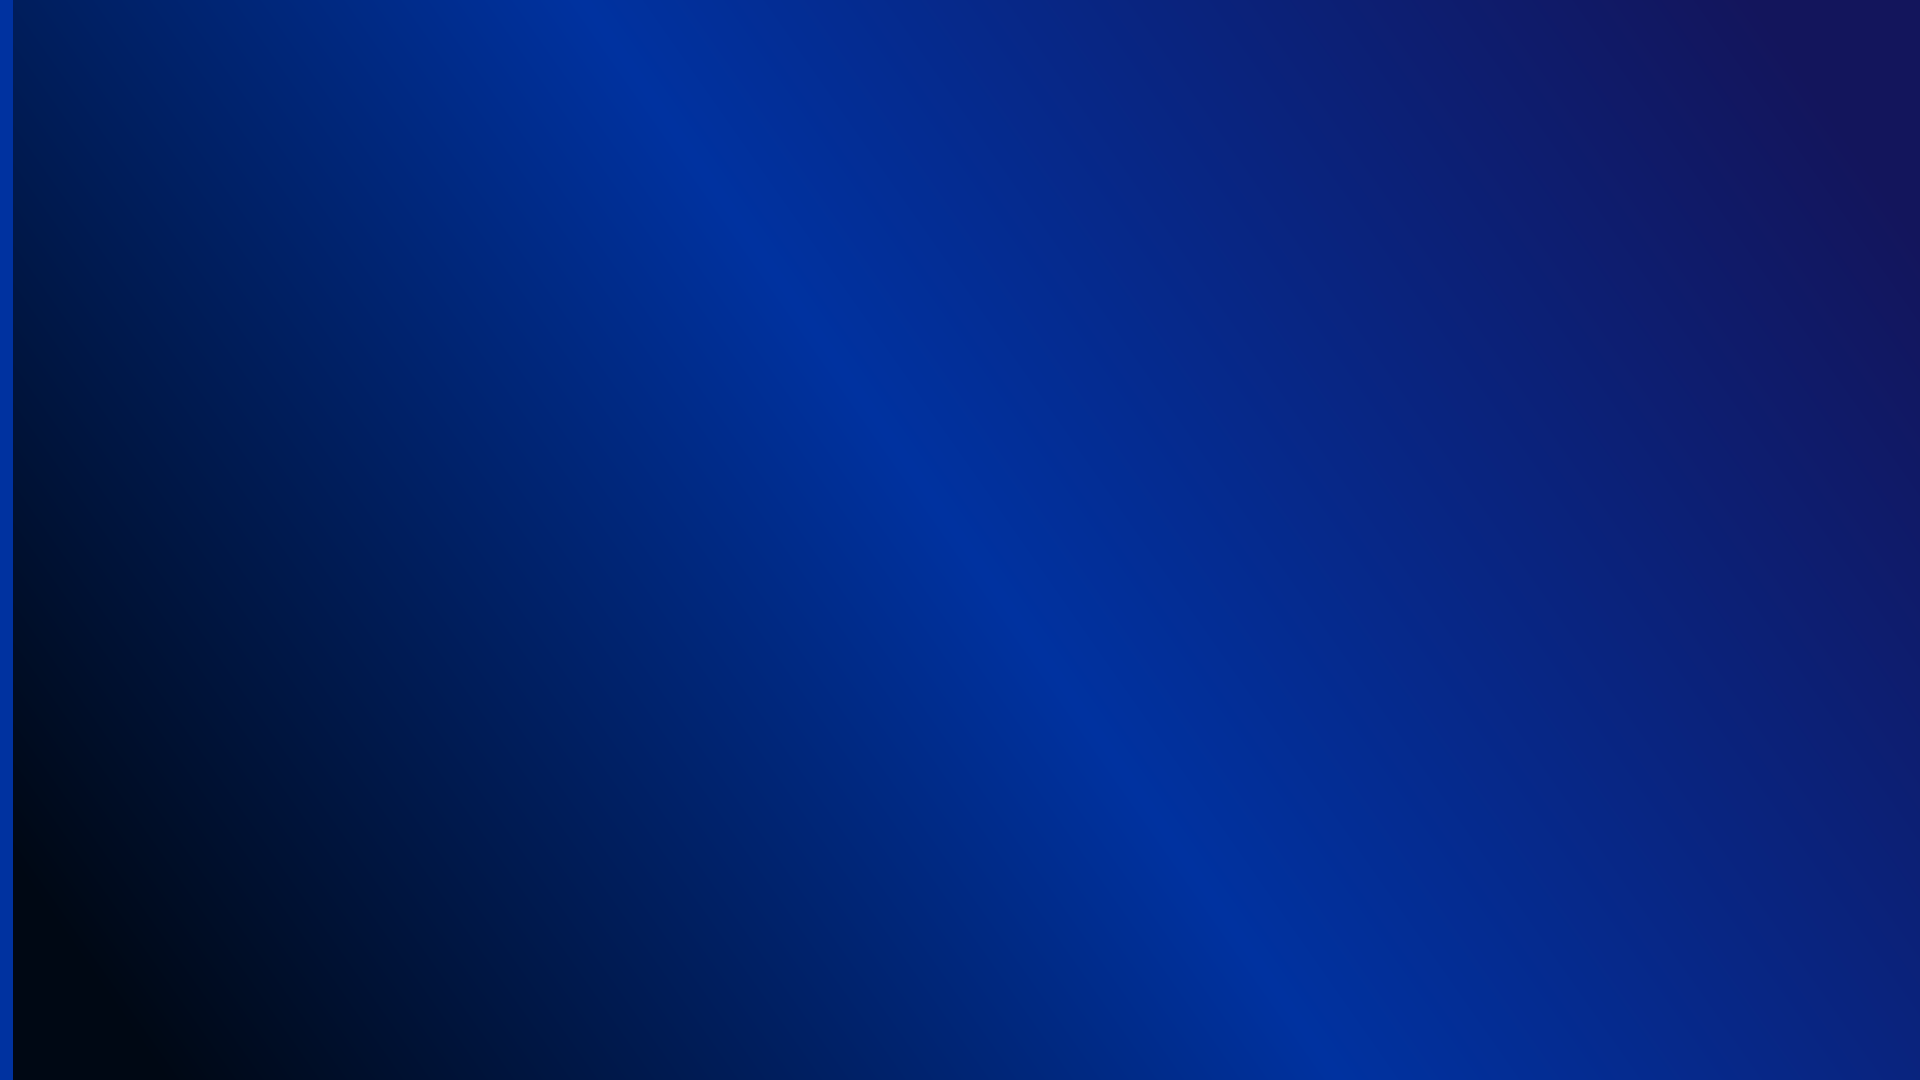
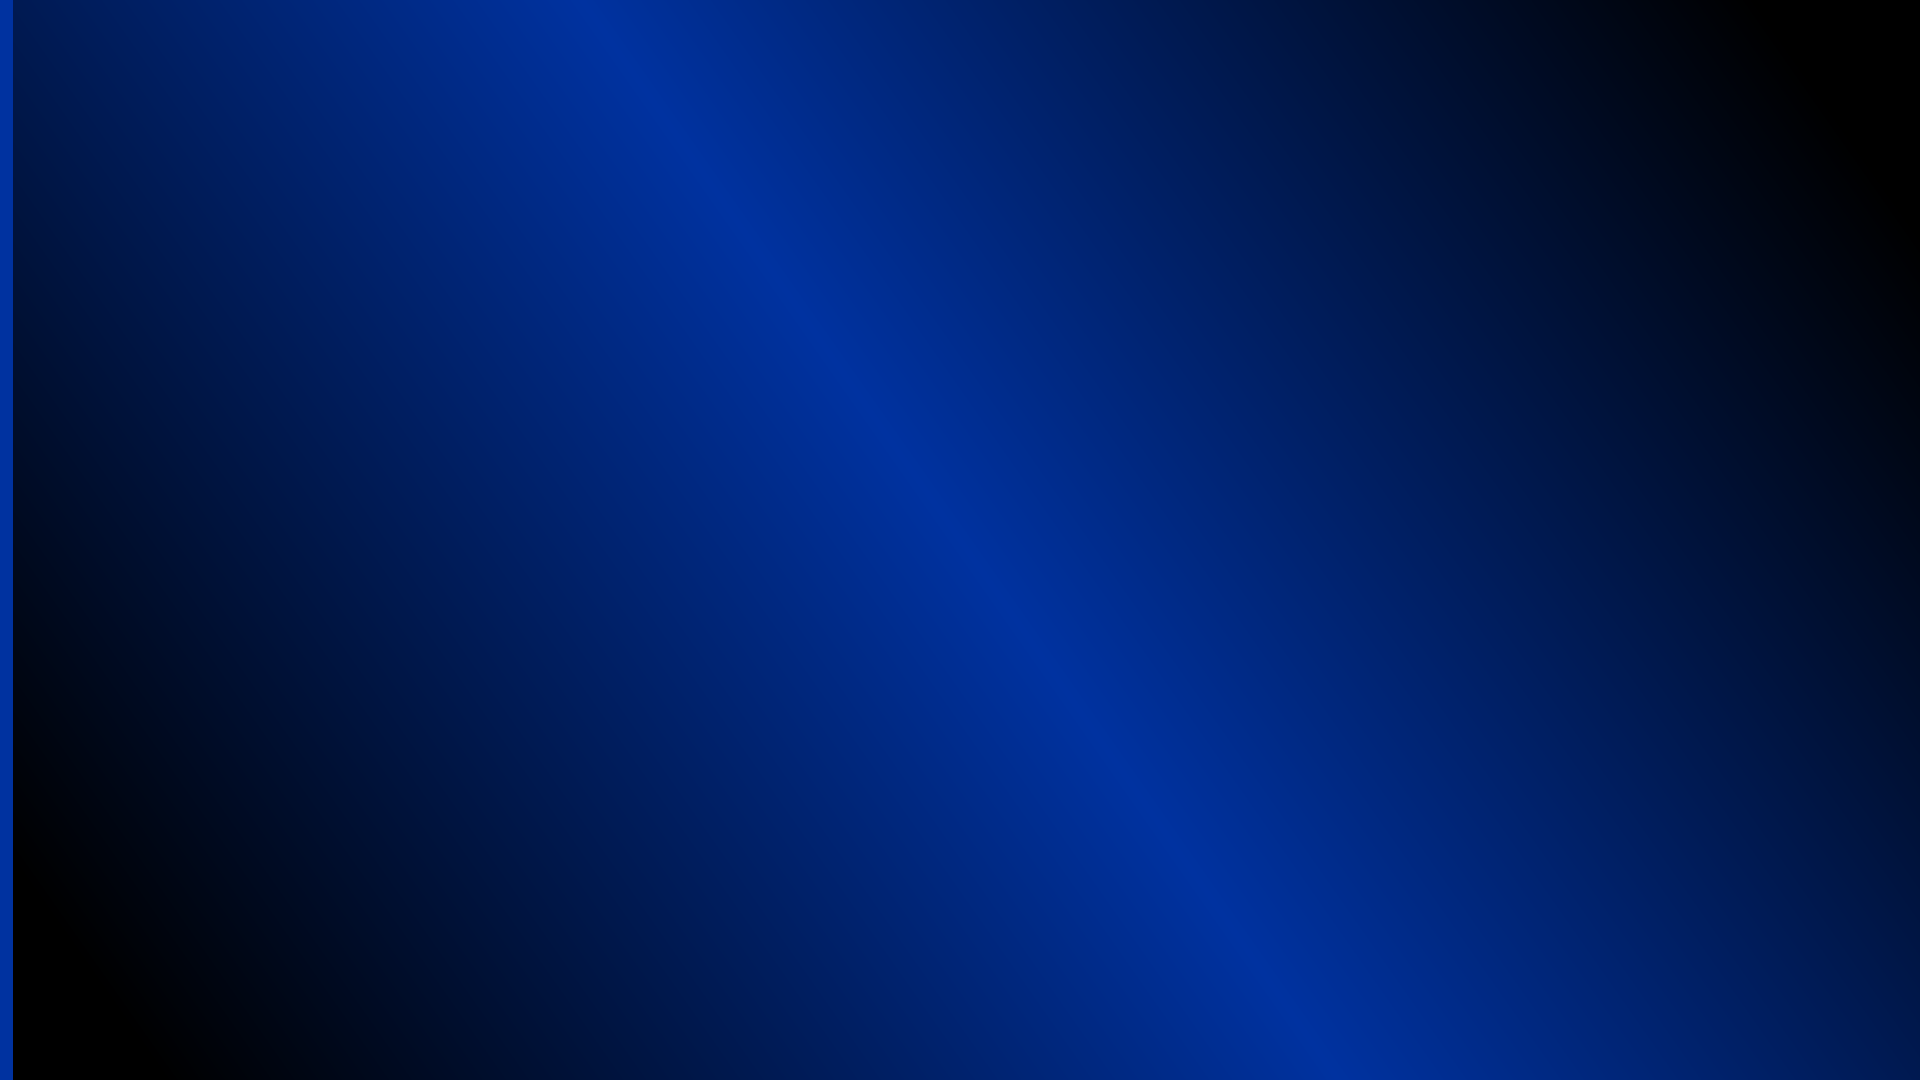
Update GVSU Lakers theme preset and enhance related functionality
- Refined the GVSU Lakers theme preset to align with official branding, including updates to subtitle, highlight, and body colors.
- Enhanced the `signage_theme_tokens_from_slide_preset` function to incorporate new signage page and harbor values for improved color management.
- Updated the test script to validate the new color settings and ensure compliance with the GVSU visual identity.

diff --git a/lib/slides_lib.php b/lib/slides_lib.php
@@ -735,17 +735,19 @@ function slide_theme_background_presets(): array
             'accent' => ['type' => 'glow', 'color' => '#ffd089', 'opacity' => 0.2],
             'thumb' => 'golden_hour.png',
         ],
-        // GVSU visual identity — https://www.gvsu.edu/identity/color-2
+        // Primary palette only: GVSU Blue, black, white — https://www.gvsu.edu/identity/color-2
         'gvsu_lakers' => [
             'label' => 'GVSU',
             'title' => '#FFFFFF',
-            'subtitle' => '#DEC197',
-            'highlight' => '#DEC197',
-            'harbor_tint' => '#0032A0',
-            'body' => '#b8c8e8',
-            'footer' => '#8aa0c0',
+            'subtitle' => '#FFFFFF',
+            'highlight' => '#FFFFFF',
+            'signage_page' => '#000000',
+            'signage_harbor' => '#0032A0',
+            'signage_beacon' => '#FFFFFF',
+            'body' => '#e8ecf5',
+            'footer' => '#d0d8e8',
             'bg' => ['type' => 'linear', 'angle' => 145, 'stops' => [
-                [0, '#13155C'], [0.5, '#0032A0'], [1, '#000814'],
+                [0, '#000000'], [0.5, '#0032A0'], [1, '#000000'],
             ]],
             'accent' => ['type' => 'bar', 'color' => '#0032A0', 'width' => 12],
             'thumb' => 'gvsu_lakers.png',

diff --git a/lib/signage_theme_lib.php b/lib/signage_theme_lib.php
@@ -188,10 +188,18 @@ function signage_theme_tokens_from_slide_preset(string $key, array $preset, arra
             );
         }
     }
-    $beacon = trim((string)($preset['highlight'] ?? $preset['subtitle'] ?? '#ffb347'));
+    $pageOverride = trim((string)($preset['signage_page'] ?? ''));
+    if ($pageOverride !== '') {
+        $lakeNight = $pageOverride;
+    }
+    $beacon = trim((string)($preset['signage_beacon'] ?? $preset['highlight'] ?? $preset['subtitle'] ?? '#ffb347'));
     $harborTint = trim((string)($preset['harbor_tint'] ?? $beacon));
     $light = !empty($preset['light']);
-    if ($key === 'lake_night') {
+    $harborOverride = trim((string)($preset['signage_harbor'] ?? ''));
+    if ($harborOverride !== '') {
+        $harbor = $harborOverride;
+        $hairline = signage_theme_derive_hairline($lakeNight, $harbor, $light);
+    } elseif ($key === 'lake_night') {
         $harbor = '#141f33';
         $hairline = $light ? '#c8d4e8' : '#26344d';
     } else {

diff --git a/scripts/test-signage-theme.php b/scripts/test-signage-theme.php
@@ -30,9 +30,10 @@ if (signage_theme_preset('forest') === null) {
 }
 $gvsu = signage_theme_preset('gvsu_lakers');
 if ($gvsu === null
-    || stripos((string)($gvsu['beacon'] ?? ''), 'dec197') === false
-    || strtolower((string)($gvsu['harbor'] ?? '')) === '#141f33') {
-    fwrite(STDERR, "FAIL: gvsu_lakers should use official GVSU palette (GVSU Blue panels + Archway accent)\n");
+    || stripos((string)($gvsu['beacon'] ?? ''), 'ffffff') === false
+    || stripos((string)($gvsu['harbor'] ?? ''), '0032a0') === false
+    || stripos((string)($gvsu['lake-night'] ?? ''), '000000') === false) {
+    fwrite(STDERR, "FAIL: gvsu_lakers should use primary palette (black, GVSU Blue #0032A0, white)\n");
     $fail++;
 }
 $key = signage_active_theme_key();